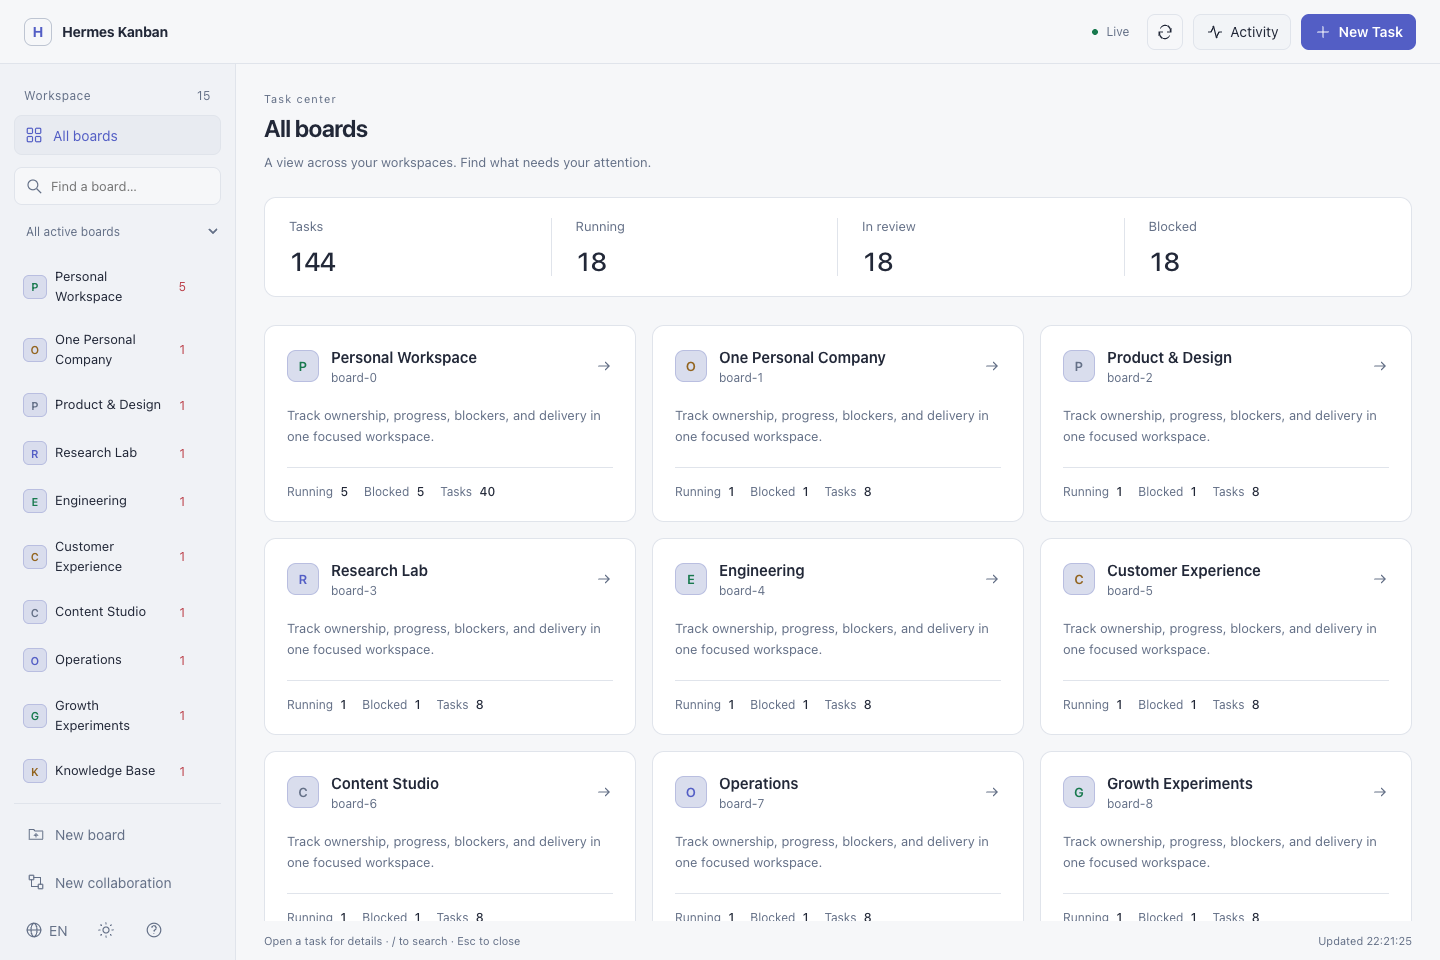
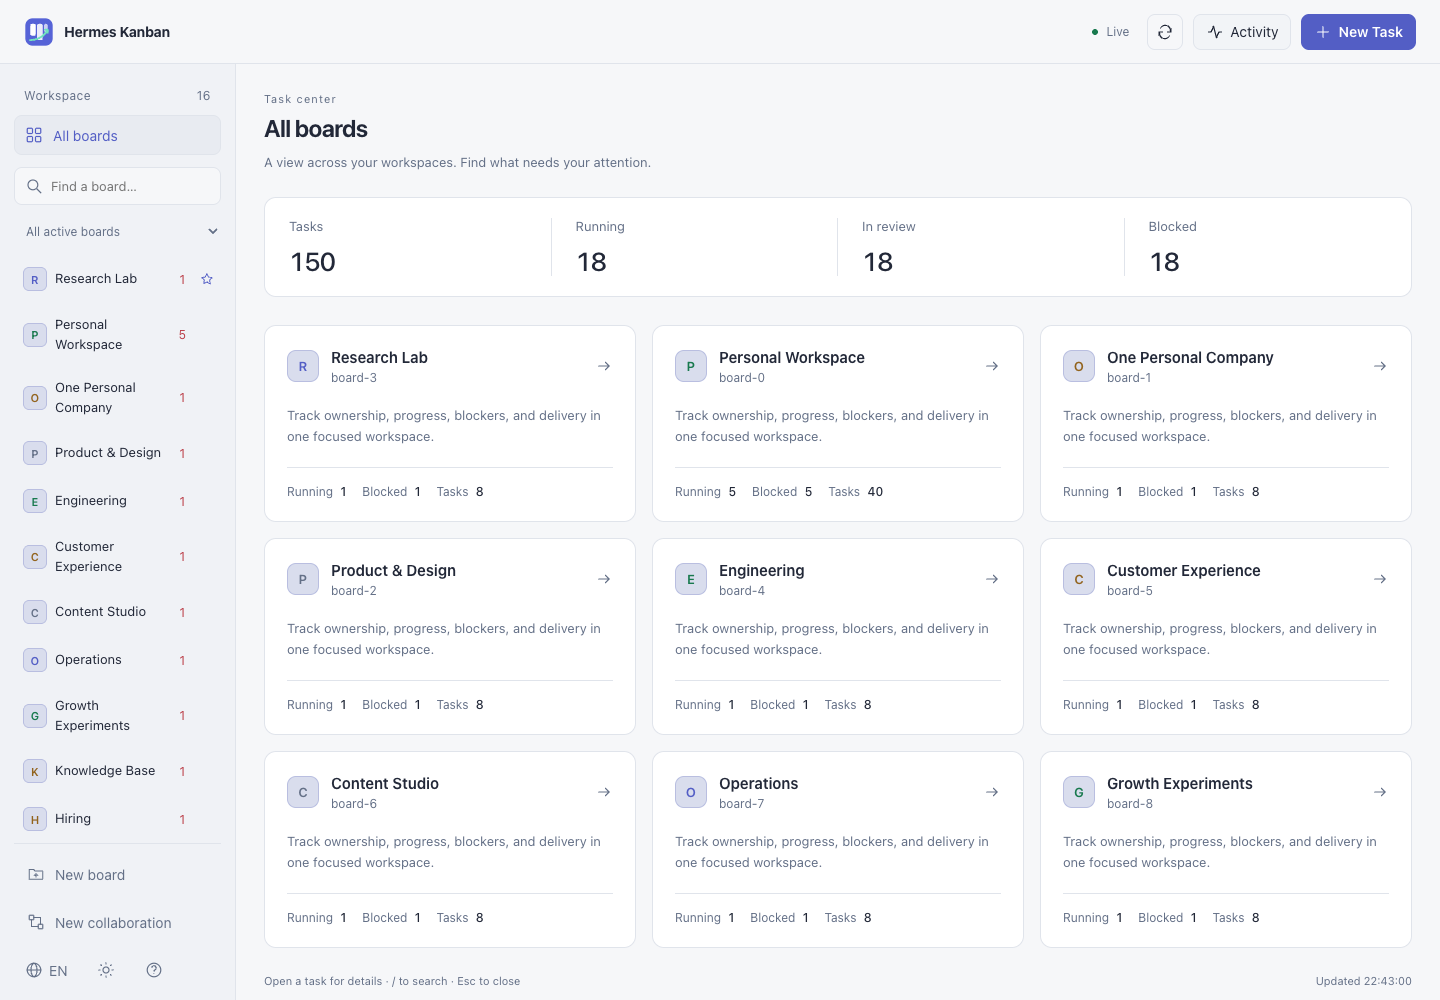
docs: refresh English product screenshots

diff --git a/tests/ui_smoke.py b/tests/ui_smoke.py
@@ -22,18 +22,18 @@ NAMES = [
     "Personal Workspace", "One Personal Company", "Product & Design",
     "Research Lab", "Engineering", "Customer Experience", "Content Studio",
     "Operations", "Growth Experiments", "Knowledge Base", "Hiring",
-    "International Launch — 跨团队产品发布与用户研究协作工作空间",
+    "International Launch and Cross-Team Research Workspace",
     "Quality Assurance", "Partnerships", "New Workspace", "Archive 2025",
 ]
 TASK_TITLES = [
-    "整理本周产品反馈，确认下一轮迭代范围",
-    "实现看板导航和任务状态实时更新",
+    "Compile weekly product feedback and confirm the next iteration scope",
+    "Implement live board navigation and task status updates",
     "Review onboarding flow and improve keyboard navigation",
-    "等待接口权限确认后接入新数据源",
-    "校验移动端布局、长标题和中英文混排",
+    "Connect the new data source after access is approved",
+    "Validate mobile layouts, long titles, and multilingual content",
     "Schedule weekly research synthesis",
-    "梳理任务依赖与交付验收标准",
-    "完成设计规范与组件间距整理",
+    "Define task dependencies and delivery acceptance criteria",
+    "Polish design tokens and component spacing",
 ]
 STATUSES = ["running", "ready", "review", "blocked", "todo", "scheduled", "triage", "done"]
 NOW = time.time()
@@ -41,12 +41,12 @@ TASKS = {
     f"board-{i}": [
         {
             "id": f"t_{i}_{j}", "title": TASK_TITLES[j % 8],
-            "body": "## 交付目标\n\n保持清晰的任务层级与阅读体验。\n\n" + ("- 可访问性与响应式验收\n" * 20),
+            "body": "## Delivery goal\n\nKeep task ownership, evidence, and next actions explicit.\n\n" + ("- Verify accessibility and responsive behavior\n" * 20),
             "status": STATUSES[j % 8], "assignee": ["dev", "research", "reviewer"][j % 3],
             "priority": 2 if j % 5 == 0 else 0, "created_at": NOW - 3600 * (j + 1),
             "started_at": NOW - 300 if j % 8 == 0 else None,
             "completed_at": NOW - 600 if j % 8 == 7 else None,
-            "blocked_reason": "等待数据源访问权限，需负责人确认。",
+            "blocked_reason": "Waiting for the owner to approve data-source access.",
         } for j in range(40 if i == 0 else 8)
     ] for i in range(16)
 }
@@ -62,7 +62,7 @@ EXTRA_BOARDS = []
 def catalog():
     boards = [
         {
-            "slug": f"board-{i}", "name": name, "description": "管理任务、跟进进展，让每一次交付清晰可见。",
+            "slug": f"board-{i}", "name": name, "description": "Track ownership, progress, blockers, and delivery in one focused workspace.",
             "archived": i == 15, "total": len(TASKS[f"board-{i}"]),
             "counts": {s: sum(t["status"] == s for t in TASKS[f"board-{i}"]) for s in STATUSES + ["archived"]},
         } for i, name in enumerate(NAMES)
@@ -89,7 +89,7 @@ def fixture_cli(args):
         return {"task": copy.deepcopy(next(t for t in TASKS[board] if t["id"] == args[3])),
                 "latest_summary": "Final delivery" if task_id == "t_synth" else None,
                 "runs": [{"id": 1, "metadata": {"gate": "pass"}}] if task_id == "t_verify" else [],
-                "comments": [{"author": "reviewer", "body": "已确认验收范围。", "created_at": NOW}],
+                "comments": [{"author": "reviewer", "body": "Acceptance scope confirmed.", "created_at": NOW}],
                 "events": [{"kind": "created", "created_at": NOW}]}
     raise AssertionError(args)
 
@@ -144,7 +144,7 @@ def run():
     try:
         with sync_playwright() as p:
             browser = p.chromium.launch(executable_path=os.environ.get("CHROME_PATH", "/Applications/Google Chrome.app/Contents/MacOS/Google Chrome"), headless=True)
-            ctx = browser.new_context(viewport={"width": 1440, "height": 1000}, locale="zh-CN", reduced_motion="reduce")
+            ctx = browser.new_context(viewport={"width": 1440, "height": 1000}, locale="en-US", reduced_motion="reduce")
             page = ctx.new_page()
             errors = []
             page.on("pageerror", lambda error: errors.append(str(error)))
@@ -156,23 +156,23 @@ def run():
 
             # Independent per-board filters, archived tasks and reload persistence.
             page.locator("#filter-assignee").select_option("dev")
-            page.locator("#search").fill("导航")
+            page.locator("#search").fill("task status")
             expect(page.locator(".card")).to_have_count(2)
             page.locator('[data-open-board="board-1"].board-link').click()
             expect(page.locator(".card")).to_have_count(8)
             expect(page.locator("#search")).to_have_value("")
             page.locator('[data-open-board="board-0"].board-link').click()
             expect(page.locator("#filter-assignee")).to_have_value("dev")
-            expect(page.locator("#search")).to_have_value("导航")
+            expect(page.locator("#search")).to_have_value("task status")
             page.reload()
-            expect(page.locator("#search")).to_have_value("导航")
+            expect(page.locator("#search")).to_have_value("task status")
             expect(page.locator(".card")).to_have_count(2)
             page.locator('.clear-filters').click()
             page.locator(".ios-switch").click()
             expect(page.locator(".card")).to_have_count(41)
             expect(page.locator('[data-task-id="t_archived"]')).to_have_count(1)
-            TASKS["board-0"][0]["title"] = "SSE 更新后的标题"
-            expect(page.locator('[data-task-id="t_0_0"] .title')).to_have_text("SSE 更新后的标题")
+            TASKS["board-0"][0]["title"] = "Title updated through SSE"
+            expect(page.locator('[data-task-id="t_0_0"] .title')).to_have_text("Title updated through SSE")
             expect(page.locator('[data-task-id="t_archived"]')).to_have_count(1)
             page.locator('.clear-filters').click()
             print("PASS filters survive board switches/reload; SSE preserves archived tasks", flush=True)
@@ -180,8 +180,8 @@ def run():
             # Status collapse and scroll positions survive updates/navigation.
             page.locator('.col-running summary').click()
             expect(page.locator('.col-running')).not_to_have_attribute("open", "")
-            TASKS["board-0"][1]["title"] += " · 更新"
-            expect(page.locator('[data-task-id="t_0_1"] .title')).to_contain_text("更新")
+            TASKS["board-0"][1]["title"] += " · updated"
+            expect(page.locator('[data-task-id="t_0_1"] .title')).to_contain_text("updated")
             expect(page.locator('.col-running')).not_to_have_attribute("open", "")
             page.locator('.col-running summary').click()
             page.locator(".columns").hover()
@@ -198,12 +198,12 @@ def run():
             card = page.locator('[data-task-id="t_0_0"]')
             card.focus()
             page.keyboard.press("Enter")
-            expect(page.locator("#drawer-title")).to_have_text("SSE 更新后的标题")
+            expect(page.locator("#drawer-title")).to_have_text("Title updated through SSE")
             page.locator('[data-tab="actions"]').click()
             page.locator("#input-comment").fill("尚未提交的草稿")
             TASKS["board-0"][0]["title"] = "Another live title"
             expect(page.locator("#drawer-update")).to_be_visible()
-            expect(page.locator("#drawer-title")).to_have_text("SSE 更新后的标题")
+            expect(page.locator("#drawer-title")).to_have_text("Title updated through SSE")
             expect(page.locator("#input-comment")).to_have_value("尚未提交的草稿")
             page.locator("#drawer-update").click()
             expect(page.locator("#drawer-title")).to_have_text("Another live title")
@@ -218,7 +218,7 @@ def run():
             page.locator('[data-tab="actions"]').click()
             expect(page.locator("#input-comment")).to_have_value("尚未提交的草稿")
             page.locator('[data-tab="overview"]').click()
-            expect(page.locator("#drawer-body-md")).to_contain_text("交付目标")
+            expect(page.locator("#drawer-body-md")).to_contain_text("Delivery goal")
             page.screenshot(path=str(shots / "drawer-desktop.png"))
             page.keyboard.press("Escape")
             print("PASS keyboard drawer, live update notice, per-task drafts", flush=True)
@@ -234,7 +234,7 @@ def run():
             page.locator("#overview-btn").click()
             expect(page.locator(".overview-card")).to_have_count(15)
             expect(page.locator(".board")).to_have_count(0)
-            page.locator("#board-search").fill("Research")
+            page.locator("#board-search").fill("Research Lab")
             expect(page.locator(".overview-card")).to_have_count(1)
             page.locator('[data-favorite="board-3"]').click()
             page.locator("#board-search").fill("")
@@ -254,7 +254,7 @@ def run():
             expect(page.locator(".card")).to_have_count(8)
             expect(page.locator("#workspace-notice")).not_to_be_visible()
             page.locator("#search").fill("no-matches-123")
-            expect(page.locator(".empty-state")).to_contain_text("没有匹配")
+            expect(page.locator(".empty-state")).to_contain_text("No matching")
             page.locator(".empty-state button").click()
             expect(page.locator(".card")).to_have_count(8)
             page.locator('[data-open-board="board-14"].board-link').click()
@@ -281,7 +281,7 @@ def run():
             expect(page.locator(".custom-icon")).to_have_count(0)
             page.locator("#board-name").fill("Content Growth")
             expect(page.locator("#board-slug")).to_have_value("content-growth")
-            page.locator("#board-description").fill("内容与获客实验")
+            page.locator("#board-description").fill("Content and acquisition experiments")
             page.locator('[data-board-icon="🚀"]').click()
             expect(page.locator("#board-icon")).to_have_value("🚀")
             expect(page.locator('[data-board-icon="🚀"]')).to_have_attribute("aria-pressed", "true")
@@ -289,7 +289,7 @@ def run():
             page.locator("#board-workdir").fill("relative/path")
             page.locator("#board-submit").click()
             expect(page.locator("#board-dialog")).to_be_visible()
-            expect(page.locator("#board-workdir")).to_have_js_property("validationMessage", "默认工作目录必须是绝对路径，以 / 开头。")
+            expect(page.locator("#board-workdir")).to_have_js_property("validationMessage", "The default work directory must be an absolute path starting with /.")
             page.locator("#board-workdir").fill("/tmp/content-growth")
             page.set_viewport_size({"width": 390, "height": 844})
             assert page.locator("#board-dialog").evaluate("(el) => el.scrollWidth <= el.clientWidth")
@@ -331,13 +331,13 @@ def run():
             page.locator("#swarm-submit").dblclick()
             expect(page.locator("#swarm-progress-dialog")).to_be_visible()
             expect(page.locator("#swarm-progress-content")).to_contain_text("0 / 4")
-            expect(page.locator("#swarm-progress-content")).to_contain_text("等待调度")
+            expect(page.locator("#swarm-progress-content")).to_contain_text("Assignments queued")
             assert len([c for c in WRITES if c[2] == "swarm"]) == 1
             for task in TASKS["board-14"]:
                 if task["id"] in ["t_worker_0", "t_worker_1", "t_verify", "t_synth"]:
                     task["status"] = "done"
             page.locator("#swarm-progress-refresh").click()
-            expect(page.locator("#swarm-progress-content")).to_contain_text("协作任务已完成")
+            expect(page.locator("#swarm-progress-content")).to_contain_text("Collaboration complete")
             expect(page.locator(".swarm-output")).to_contain_text("Final delivery")
             page.screenshot(path=str(shots / "swarm-progress.png"))
             page.locator('[data-swarm-task="t_synth"]').click()
@@ -357,6 +357,7 @@ def run():
             page.locator("#theme-btn").click()
             page.screenshot(path=str(shots / "desktop-light.png"))
             page.locator("#overview-btn").click()
+            expect(page.locator("#sse-text")).to_have_text("Live")
             page.screenshot(path=str(shots / "overview-light.png"))
             page.locator('[data-open-board="board-0"].board-link').click()
             for width, height in [(820, 1000), (556, 916), (390, 844)]:
@@ -374,7 +375,7 @@ def run():
             page.screenshot(path=str(shots / "mobile-activity.png"))
             page.locator("#activity-close").click()
             page.locator(".card").first.click()
-            expect(page.locator("#drawer-body-md")).to_contain_text("交付目标")
+            expect(page.locator("#drawer-body-md")).to_contain_text("Delivery goal")
             page.screenshot(path=str(shots / "mobile-drawer.png"))
             page.keyboard.press("Escape")
             assert not errors, errors

diff --git a/README.md b/README.md
@@ -144,9 +144,9 @@ Docker, Tailscale, and reverse-proxy recipes.
 Screenshots use synthetic fixture data. No production tasks, paths, or
 identities are included.
 
-| Task details | Collaboration workflow |
+| Task details | Collaboration progress |
 |---|---|
-| <img src="docs/images/task-details.png" alt="Task details drawer" width="700"> | <img src="docs/images/collaboration.png" alt="New collaboration workflow" width="700"> |
+| <img src="docs/images/task-details.png" alt="Task details drawer" width="700"> | <img src="docs/images/collaboration.png" alt="Collaboration workflow progress" width="700"> |
 
 ### License
 
